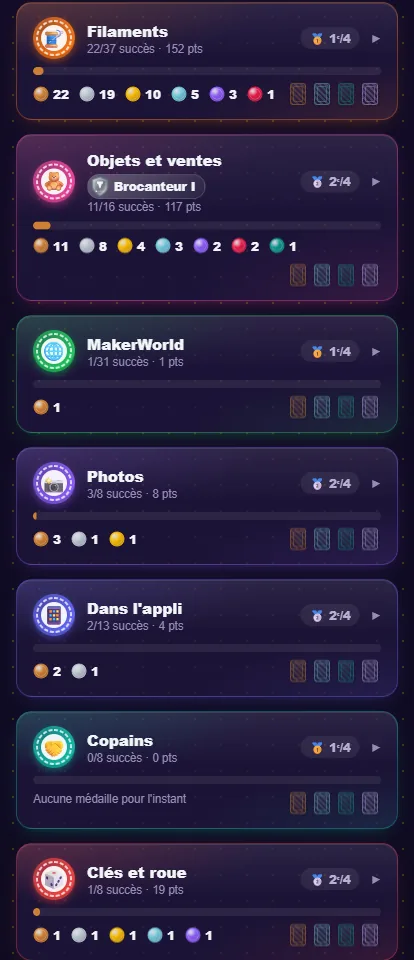
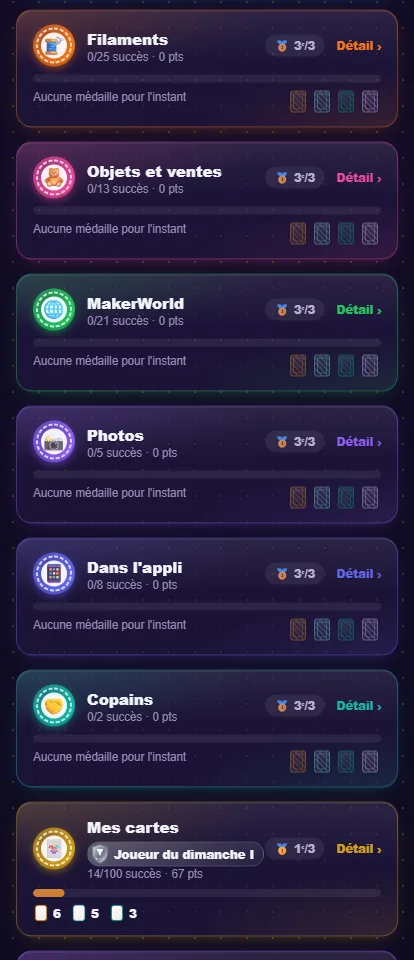
Succès : les sections en cartes de même hauteur, leur détail s'ouvre dans une fenêtre au lieu de se déplier sur toute la largeur

diff --git a/frontend/src/pages/Achievements.jsx b/frontend/src/pages/Achievements.jsx
@@ -177,7 +177,8 @@ export default function Achievements({ embedded = false }) {
   if (err) return <p style={msg}>{err}</p>;
   if (!data) return <p style={msg}>…</p>;
 
-  const toggle = c => setOpenCats(s => { const n = new Set(s); n.has(c) ? n.delete(c) : n.add(c); return n; });
+  // une section a la fois : son detail s'ouvre dans une fenetre
+  const toggle = c => setOpenCats(s => s.has(c) ? new Set() : new Set([c]));
   const closeDetail = () => {
     setDetail(null);
     if (focus) { const n = new URLSearchParams(sp); n.delete("a"); setSp(n, { replace:true }); }
@@ -320,8 +321,9 @@ export default function Achievements({ embedded = false }) {
         </>;
       })()}
 
-      {/* Sections : sur PC, en colonnes ; celle qu'on ouvre prend toute la ligne. */}
-      <div className="wide-list" style={{ "--wl-gap":"14px", "--wl-min":"440px" }}>
+      {/* Sections : sur PC, en colonnes, toutes de la meme hauteur ; le detail d'une section s'ouvre
+          dans une fenetre (avant, il s'ouvrait sur place et prenait toute la ligne : grille decousue). */}
+      <div className="wide-list" style={{ "--wl-gap":"14px", "--wl-min":"440px", alignItems:"stretch" }}>
       {data.categories.map(c => {
         const items = data.items.filter(x => x.cat === c.id)
           .sort((a, b) => (b.level - a.level) || (progress(b) - progress(a)));
@@ -340,9 +342,9 @@ export default function Achievements({ embedded = false }) {
         const common = items.filter(x => shared(x) === true).length;
         const toFind = items.filter(x => shared(x) === false).length;
         return (
-          <div key={c.id} className={open ? "card wide-span" : "card"} style={{ padding:0, overflow:"hidden", ...feltCard(CAT_COLOR[c.id] || "#8B5CF6") }}>
-            <button onClick={() => toggle(c.id)} aria-expanded={open}
-              style={{ width:"100%", display:"flex", flexDirection:"column", gap:8, padding:"14px 16px", background:"none",
+          <div key={c.id} className="card" style={{ padding:0, overflow:"hidden", display:"flex", flexDirection:"column", ...feltCard(CAT_COLOR[c.id] || "#8B5CF6") }}>
+            <button onClick={() => toggle(c.id)} aria-expanded={open} aria-haspopup="dialog"
+              style={{ width:"100%", flex:1, display:"flex", flexDirection:"column", gap:8, padding:"14px 16px", background:"none",
                 border:"none", cursor:"pointer", textAlign:"left", color:"var(--text)" }}>
               <div style={{ display:"flex", alignItems:"center", gap:12, width:"100%" }}>
                 <Chip emoji={c.emoji} color={CAT_COLOR[c.id] || "#8B5CF6"}/>
@@ -378,9 +380,10 @@ export default function Achievements({ embedded = false }) {
                     whiteSpace:"nowrap", background:"var(--surface2)", color:"var(--text2)" }}>
                     {["🥇", "🥈", "🥉"][myRank - 1] || "🏅"} {myRank}ᵉ/{ranked.length}</span>
                 )}
-                <span style={{ fontSize:11, color:"var(--muted)", transform: open ? "rotate(90deg)" : "none", transition:"transform .15s" }}>▶</span>
+                <span style={{ fontSize:11.5, fontWeight:800, whiteSpace:"nowrap", color: CAT_COLOR[c.id] || "#8B5CF6" }}>Détail ›</span>
               </div>
-              <Bar value={sum.max ? sum.score / sum.max : 0} tiers={data.tiers}/>
+              {/* la barre et les medailles en bas : d'une carte a l'autre, elles s'alignent */}
+              <div style={{ marginTop:"auto" }}><Bar value={sum.max ? sum.score / sum.max : 0} tiers={data.tiers}/></div>
               <div style={{ display:"flex", gap:10, flexWrap:"wrap" }}>
                 {data.tiers.filter(t => sum.medals[t.id]).map(t => (
                   <span key={t.id} style={{ display:"inline-flex", alignItems:"center", gap:4, fontSize:12, fontWeight:800 }}>
@@ -390,8 +393,17 @@ export default function Achievements({ embedded = false }) {
                 {c.id !== "cards" && c.id !== "secret" && <span style={{ marginLeft:"auto" }}><Hand of={`c_${c.id}`}/></span>}
               </div>
             </button>
-            {open && (
-              <div style={{ padding:"0 16px 16px", display:"flex", flexDirection:"column", gap:14 }}>
+            {open && <Zoom icon={<span style={{ fontSize:20 }}>{c.emoji}</span>} color={CAT_COLOR[c.id] || "#8B5CF6"} label={c.name} onClose={() => toggle(c.id)}>
+              <div style={{ display:"flex", flexDirection:"column", gap:14 }}>
+                {/* en tete de la fenetre : le resume de la section */}
+                <div style={{ display:"flex", flexDirection:"column", gap:8 }}>
+                  <div style={{ display:"flex", alignItems:"center", flexWrap:"wrap", gap:"4px 10px", fontSize:12.5, fontWeight:700, color:"var(--text2)" }}>
+                    <GradeBadge g={gradeOf(c.id, sum.max ? sum.score / sum.max : 0)}/>
+                    <span>{got}/{items.length} succès · {sum.score} pts</span>
+                    {near > 0 && <span style={{ color:"#F59E0B" }}>👀 {near} à portée</span>}
+                    {myRank > 0 && <span>{["🥇", "🥈", "🥉"][myRank - 1] || "🏅"} {myRank}ᵉ/{ranked.length}</span>}</div>
+                  <Bar value={sum.max ? sum.score / sum.max : 0} tiers={data.tiers}/>
+                </div>
                 {withFriends && (
                   <div style={{ display:"flex", flexDirection:"column", gap:10, padding:"12px", borderRadius:12,
                     ...feltCard(CAT_COLOR[c.id] || "#8B5CF6", "#F5B700"),
@@ -499,7 +511,7 @@ export default function Achievements({ embedded = false }) {
                   </div>
                 ))}
               </div>
-            )}
+            </Zoom>}
           </div>
         );
       })}

diff --git a/backend/guide/pages/succes.html b/backend/guide/pages/succes.html
@@ -47,19 +47,19 @@
   <p>Les succès sont rangés en dix sections : 🖨 <strong>Impressions</strong>, 🧵 <strong>Filaments</strong>, 🧸 <strong>Objets et ventes</strong>, 🌐 <strong>MakerWorld</strong>, 📸 <strong>Photos</strong>, 📱 <strong>Dans l'appli</strong>, 🤝 <strong>Copains</strong>, 🎲 <strong>Clés et roue</strong>, 🃏 <strong>Mes cartes</strong> et 🔮 <strong>Secrets</strong>.</p>
   <p>On y trouve par exemple des succès sur le volume et la durée de tes impressions, ta régularité, la diversité des modèles et des couleurs, les filaments utilisés et ton stock, tes ventes d'objets, ton activité MakerWorld (téléchargements, abonnés, niveau…), tes photos, ton usage de l'appli, les visites entre copains ou le jeu de la roue. Une section n'apparaît que si elle contient des succès, et un succès lié à une matière que tu n'as jamais imprimée n'est pas affiché.</p>
   <figure class="pair">
-    <img src="img/succes-sections.webp" alt="Sections repliées : Filaments, Objets et ventes avec le badge de grade Brocanteur I, MakerWorld, Photos, Dans l'appli, Copains, Clés et roue, chacune avec sa barre, ses médailles et sa main de cartes">
-    <img src="img/succes-section.webp" alt="Section Impressions dépliée : podium Léo, Toi, Maya, comparaison des points avec chaque copain, puis la grille des médailles avec les avatars des copains devant toi">
-    <figcaption>À gauche, les sections repliées ; à droite, une section dépliée avec son podium et la comparaison.</figcaption>
+    <img src="img/succes-sections.webp" alt="Les cartes des sections : Filaments, Objets et ventes, MakerWorld, Photos, Dans l'appli, Copains, Mes cartes, chacune avec sa place, Détail ›, sa barre, ses médailles et sa main de cartes">
+    <img src="img/succes-section.webp" alt="Fenêtre de la section Impressions : grade, succès et points, barre, podium, comparaison des points avec chaque copain, puis la grille des médailles">
+    <figcaption>À gauche, les cartes des sections ; à droite, la fenêtre d'une section avec son podium et la comparaison.</figcaption>
   </figure>
   <section id="succes-sections-entete">
     <h3>L'en-tête d'une section</h3>
     <ul>
       <li>le jeton coloré, le nom et le badge du titre de la section ;</li>
       <li>« X/Y succès · N pts » (complété, le cas échéant, par les tickets utilisés et les clés dépensées dans la section) ;</li>
-      <li>à droite, <span class="ui">🥇 1ᵉ/4</span> : ta place parmi tes copains dans cette section ;</li>
+      <li>à droite, <span class="ui">🥇 1ᵉ/4</span> : ta place parmi tes copains dans cette section, et <span class="ui">Détail ›</span> ;</li>
       <li>une barre de progression, le compte de tes médailles par palier (ou « Aucune médaille pour l'instant ») et, à droite, la <strong>main de cartes</strong> de la section.</li>
     </ul>
-    <p>Touche l'en-tête pour déplier la section. Sur ordinateur, les sections sont en colonnes et la section ouverte prend toute la largeur. Dépliée, elle montre son podium, la comparaison avec chaque copain (deux barres, orange pour toi, violet pour lui, avec l'écart « +N pts » en vert, « -N pts » en rouge ou « = pts »), puis la grille de ses succès, du palier le plus haut au plus bas.</p>
+    <p>Touche la carte d'une section pour ouvrir son détail dans une fenêtre (un panneau qui monte du bas sur téléphone). Sur ordinateur, les sections sont en colonnes, et les cartes d'une même ligne ont la même hauteur. La fenêtre rappelle en tête le grade, les succès, les points et la barre, puis montre le podium, la comparaison avec chaque copain (deux barres, orange pour toi, violet pour lui, avec l'écart « +N pts » en vert, « -N pts » en rouge ou « = pts »), puis la grille de ses succès, du palier le plus haut au plus bas.</p>
   </section>
   <section id="succes-vignette">
     <h3>Les vignettes</h3>
